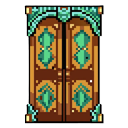
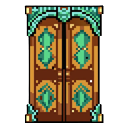
math livegame update

Changed region(s): [[0.1875, 0.9375, 0.8125, 0.9688], [0.7812, 0.0938, 0.8125, 0.125]]

diff --git a/apps/livegame.html b/apps/livegame.html
@@ -274,6 +274,8 @@
         let mathNum2 = 0;
         let mathScore = 0;
         let answeredSet = new Set();
+        let mathStartTime = null;
+        let mathEndTime = null;
 
         const CORRECT_REWARD = 500;
         const WRONG_COST = 200;
@@ -345,6 +347,11 @@
 
             if (correct) {
 
+                if (!mathStartTime) {
+                    mathStartTime = Date.now();
+                    console.log("Math started:", mathStartTime);
+                }
+
                 answeredSet.add(`${mathNum1}_${mathNum2}`);
                 mathScore++;
 
@@ -375,6 +382,9 @@
             answeredSet.clear();
             mathScore = 0;
 
+            mathStartTime = null;
+            mathEndTime = null;
+
             set(ref(database, mathPath()), null);
 
             generateMathTable();
@@ -384,12 +394,33 @@
 
         function endMathGame() {
 
+            if (!mathStartTime) {
+                document.getElementById('mathPrompt').innerHTML =
+                    `All problems solved!<br>
+             Final Score: ${mathScore}`;
+                return;
+            }
+
+            mathEndTime = Date.now();
+
+            const totalMs = mathEndTime - mathStartTime;
+
+            const totalSeconds = Math.floor(totalMs / 1000);
+            const minutes = Math.floor(totalSeconds / 60);
+            const seconds = totalSeconds % 60;
+
             document.getElementById('mathPrompt').innerHTML =
-                `All problems solved! Final Score: ${mathScore}`;
+                `All problems solved!<br>
+                Final Score: ${mathScore}<br>
+                Time: ${minutes}m ${seconds}s`;
 
             document.getElementById('mathStats').innerHTML = '';
-            mathNum1 = null;
-            mathNum2 = null;
+
+            update(ref(database, mathPath()), {
+                startTime: mathStartTime,
+                endTime: mathEndTime,
+                durationMs: totalMs
+            });
         }
 
         function mathPath() {

diff --git a/apps/assets/js/livegame.js b/apps/assets/js/livegame.js
@@ -237,7 +237,8 @@ export function createQuizModule({
 
             answeredQuestions[q.id] = {
                 status: 'answered',
-                description: q.description
+                description: q.description,
+                question: q.question
             };
 
             rewardCorrect(q.description);
@@ -247,7 +248,8 @@ export function createQuizModule({
 
             answeredQuestions[q.id] = {
                 status: 'incorrect',
-                description: q.description
+                description: q.description,
+                question: q.question
             };
 
             punishWrong(q.description);
@@ -281,14 +283,23 @@ export function createQuizModule({
             return;
         }
 
-        incorrect.forEach(([id]) => {
+        incorrect.forEach(([id, data]) => {
+
+            const wrapper = document.createElement('div');
+            wrapper.className = 'panel';
+            wrapper.style.marginBottom = '8px';
+
+            const title = document.createElement('div');
+            title.innerHTML = `<strong>${data.question || id}</strong>`;
 
             const btn = document.createElement('button');
-            btn.textContent = `Recover Question (Cost: 50 coins)`;
-
+            btn.textContent = `Recover (Cost: 50 coins)`;
             btn.onclick = () => recoverQuestion(id);
 
-            container.appendChild(btn);
+            wrapper.appendChild(title);
+            wrapper.appendChild(btn);
+
+            container.appendChild(wrapper);
         });
     }
 

diff --git a/apps/assets/css/livegame.css b/apps/assets/css/livegame.css
@@ -176,3 +176,9 @@ canvas {
 #editorCanvas {
     max-width: 60vh;
 }
+
+input,
+textarea,
+select {
+    font-size: 16px;
+}